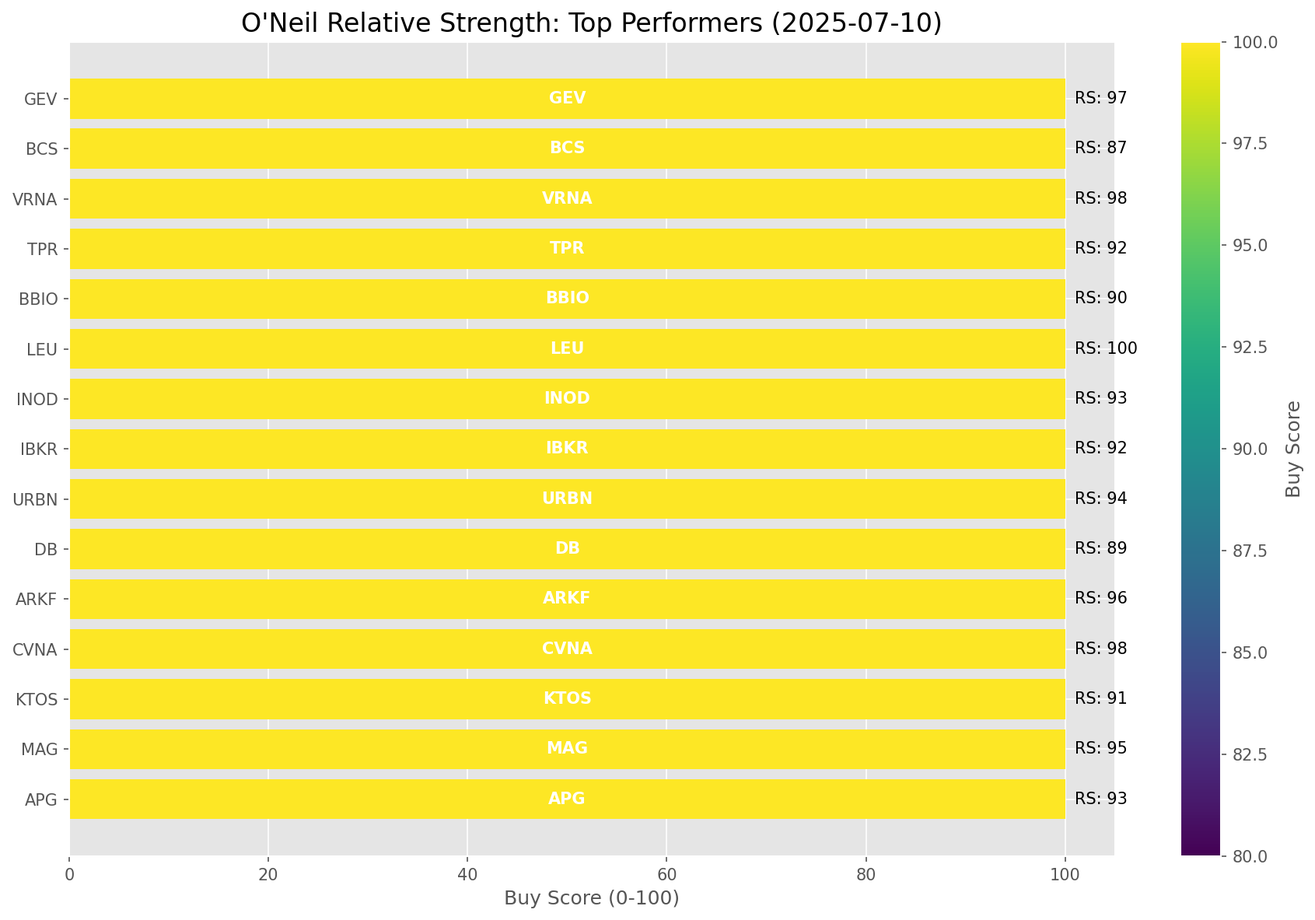
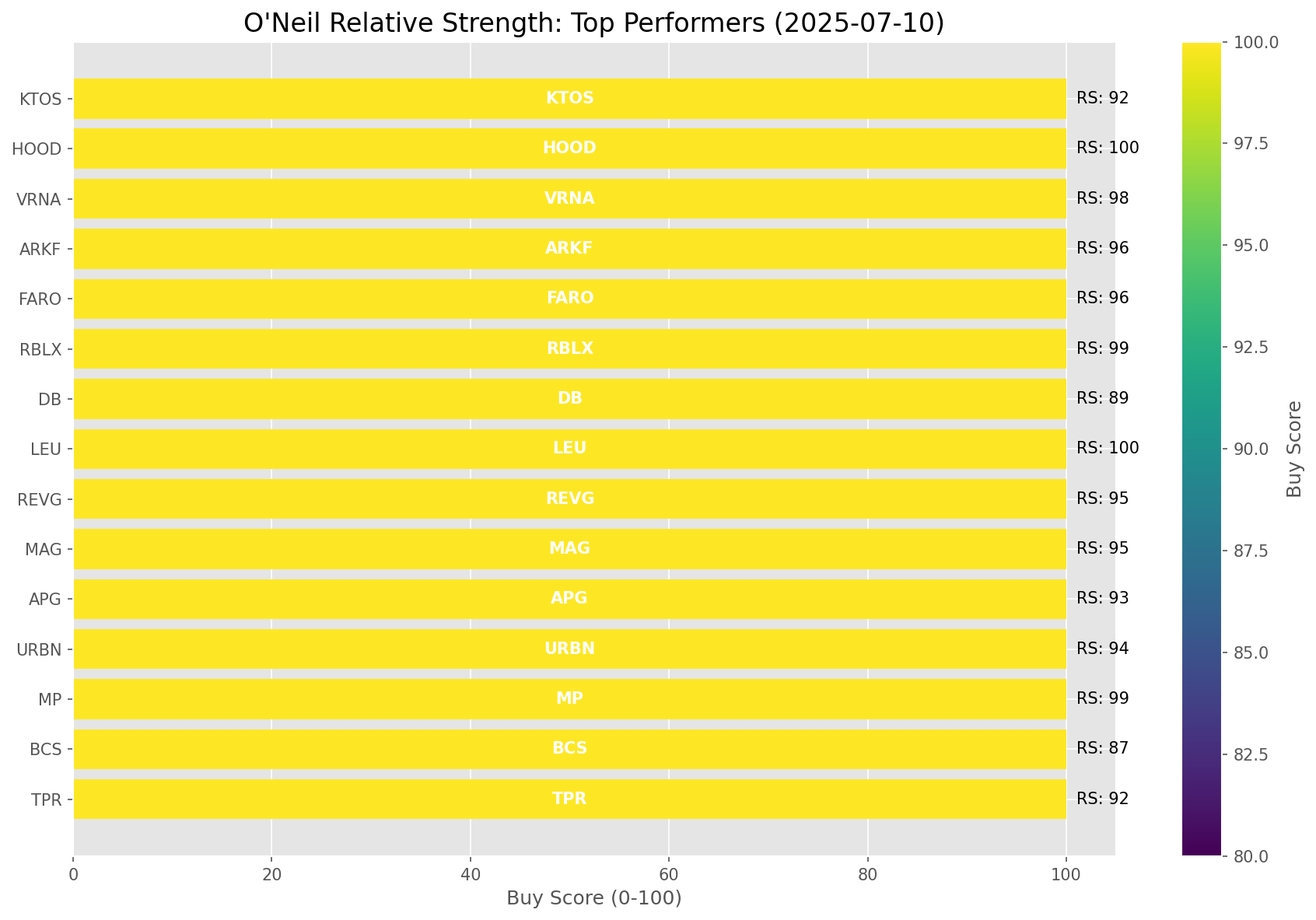
Add market report for 2025-07-10

diff --git a/oneil_relative_strength_report_2025-07-10.md b/oneil_relative_strength_report_2025-07-10.md
@@ -9,11 +9,11 @@
 | Metric | Value |
 |--------|-------|
 | **Market Valuation** | **Overvalued** |
-| **Current Ratio** | 10.31 |
+| **Current Ratio** | 10.30 |
 | **Historical Mean** | 9.44 |
 | **Standard Deviation** | 0.51 |
 | **Z-Score (StdDev from Mean)** | 1.62 |
-| **Total Market Cap** | $308.86 trillion |
+| **Total Market Cap** | $308.72 trillion |
 | **GDP** | $29.96 trillion |
 
 ## **Market Insights**
@@ -49,41 +49,41 @@ Based on William O'Neil's Relative Strength Methodology
 
 | ETF | Strength | RS Rating | Performance | Above Key MAs | Trend | Sector |
 |-----|----------|-----------|-------------|--------------|-------|--------|
-| [ARKW](https://www.tradingview.com/chart/?symbol=ARKW) | 98.0 | 96.0 | 82.32% | 10d ✓, 50d ✓, 200d ✓ | ↗ | Next Generation Internet |
-| [ARKF](https://www.tradingview.com/chart/?symbol=ARKF) | 98.0 | 96.0 | 76.46% | 10d ✓, 50d ✓, 200d ✓ | ↗ | Fintech Innovation |
-| [ARKK](https://www.tradingview.com/chart/?symbol=ARKK) | 98.0 | 96.0 | 80.76% | 10d ✓, 50d ✓, 200d ✓ | ↗ | Innovation |
-| [BLOK](https://www.tradingview.com/chart/?symbol=BLOK) | 97.0 | 94.0 | 64.85% | 10d ✓, 50d ✓, 200d ✓ | ↗ | Blockchain & Cryptocurrency |
-| [JETS](https://www.tradingview.com/chart/?symbol=JETS) | 93.5 | 87.0 | 48.36% | 10d ✓, 50d ✓, 200d ✓ | ↗ | Airlines |
-| [XLK](https://www.tradingview.com/chart/?symbol=XLK) | 91.5 | 83.0 | 43.31% | 10d ✓, 50d ✓, 200d ✓ | ↗ | Technology |
-| [AIQ](https://www.tradingview.com/chart/?symbol=AIQ) | 89.5 | 79.0 | 38.81% | 10d ✓, 50d ✓, 200d ✓ | ↗ | Artificial Intelligence & Technology |
-| [URA](https://www.tradingview.com/chart/?symbol=URA) | 88.1 | 96.0 | 82.23% | 10d ✗, 50d ✓, 200d ✓ | ↗ | Uranium |
+| [ARKW](https://www.tradingview.com/chart/?symbol=ARKW) | 98.0 | 96.0 | 82.03% | 10d ✓, 50d ✓, 200d ✓ | ↗ | Next Generation Internet |
+| [ARKF](https://www.tradingview.com/chart/?symbol=ARKF) | 98.0 | 96.0 | 76.37% | 10d ✓, 50d ✓, 200d ✓ | ↗ | Fintech Innovation |
+| [ARKK](https://www.tradingview.com/chart/?symbol=ARKK) | 98.0 | 96.0 | 81.12% | 10d ✓, 50d ✓, 200d ✓ | ↗ | Innovation |
+| [BLOK](https://www.tradingview.com/chart/?symbol=BLOK) | 97.0 | 94.0 | 64.83% | 10d ✓, 50d ✓, 200d ✓ | ↗ | Blockchain & Cryptocurrency |
+| [JETS](https://www.tradingview.com/chart/?symbol=JETS) | 93.5 | 87.0 | 47.84% | 10d ✓, 50d ✓, 200d ✓ | ↗ | Airlines |
+| [XLK](https://www.tradingview.com/chart/?symbol=XLK) | 91.5 | 83.0 | 43.19% | 10d ✓, 50d ✓, 200d ✓ | ↗ | Technology |
+| [AIQ](https://www.tradingview.com/chart/?symbol=AIQ) | 89.5 | 79.0 | 38.65% | 10d ✓, 50d ✓, 200d ✓ | ↗ | Artificial Intelligence & Technology |
+| [URA](https://www.tradingview.com/chart/?symbol=URA) | 88.1 | 96.0 | 83.12% | 10d ✗, 50d ✓, 200d ✓ | ↗ | Uranium |
 | [PAVE](https://www.tradingview.com/chart/?symbol=PAVE) | 87.0 | 74.0 | 33.97% | 10d ✓, 50d ✓, 200d ✓ | ↗ | Infrastructure |
-| [XLI](https://www.tradingview.com/chart/?symbol=XLI) | 84.0 | 68.0 | 29.83% | 10d ✓, 50d ✓, 200d ✓ | ↗ | Industrial |
-| [XLY](https://www.tradingview.com/chart/?symbol=XLY) | 80.0 | 60.0 | 25.69% | 10d ✓, 50d ✓, 200d ✓ | ↗ | Consumer Discretionary |
-| [SLV](https://www.tradingview.com/chart/?symbol=SLV) | 78.0 | 56.0 | 23.62% | 10d ✓, 50d ✓, 200d ✓ | ↗ | Silver |
-| [SOXX](https://www.tradingview.com/chart/?symbol=SOXX) | 76.0 | 92.0 | 59.58% | 10d ✓, 50d ✓, 200d ✓ | ↘ | Semiconductors |
-| [XLF](https://www.tradingview.com/chart/?symbol=XLF) | 74.5 | 49.0 | 20.03% | 10d ✓, 50d ✓, 200d ✓ | ↗ | Financial |
-| [CIBR](https://www.tradingview.com/chart/?symbol=CIBR) | 74.1 | 68.0 | 29.43% | 10d ✗, 50d ✓, 200d ✓ | ↗ | Cybersecurity |
-| [ARKG](https://www.tradingview.com/chart/?symbol=ARKG) | 71.0 | 82.0 | 42.04% | 10d ✓, 50d ✓, 200d ✓ | ↘ | Genomics |
-| [XLC](https://www.tradingview.com/chart/?symbol=XLC) | 68.6 | 57.0 | 24.05% | 10d ✗, 50d ✓, 200d ✓ | ↗ | Communications |
-| [XLU](https://www.tradingview.com/chart/?symbol=XLU) | 68.0 | 36.0 | 13.10% | 10d ✓, 50d ✓, 200d ✓ | ↗ | Utilities |
-| [IYT](https://www.tradingview.com/chart/?symbol=IYT) | 66.0 | 72.0 | 32.22% | 10d ✓, 50d ✓, 200d ✓ | ↘ | Transportation |
-| [IYZ](https://www.tradingview.com/chart/?symbol=IYZ) | 65.6 | 51.0 | 20.59% | 10d ✗, 50d ✓, 200d ✓ | ↗ | Telecommunications |
-| [KWEB](https://www.tradingview.com/chart/?symbol=KWEB) | 65.1 | 50.0 | 20.46% | 10d ✗, 50d ✓, 200d ✓ | ↗ | Chinese Internet |
-| [ICLN](https://www.tradingview.com/chart/?symbol=ICLN) | 63.0 | 66.0 | 28.36% | 10d ✓, 50d ✓, 200d ✓ | ↘ | Clean Energy |
-| [XLB](https://www.tradingview.com/chart/?symbol=XLB) | 59.0 | 58.0 | 24.60% | 10d ✓, 50d ✓, 200d ✓ | ↘ | Materials |
-| [XLE](https://www.tradingview.com/chart/?symbol=XLE) | 50.5 | 41.0 | 15.74% | 10d ✓, 50d ✓, 200d ✓ | ↘ | Energy |
-| [IYR](https://www.tradingview.com/chart/?symbol=IYR) | 48.5 | 37.0 | 13.74% | 10d ✓, 50d ✓, 200d ✓ | ↘ | Real Estate |
-| [GLD](https://www.tradingview.com/chart/?symbol=GLD) | 46.2 | 32.0 | 11.00% | 10d ✗, 50d ✗, 200d ✓ | ↗ | Gold |
-| [DBC](https://www.tradingview.com/chart/?symbol=DBC) | 45.5 | 31.0 | 10.00% | 10d ✓, 50d ✓, 200d ✓ | ↘ | Commodities |
-| [IBB](https://www.tradingview.com/chart/?symbol=IBB) | 43.8 | 48.0 | 19.21% | 10d ✓, 50d ✓, 200d ✗ | ↘ | Biotechnology |
-| [ITB](https://www.tradingview.com/chart/?symbol=ITB) | 42.8 | 46.0 | 18.17% | 10d ✓, 50d ✓, 200d ✗ | ↘ | Home Construction |
-| [XLP](https://www.tradingview.com/chart/?symbol=XLP) | 42.7 | 25.0 | 6.57% | 10d ✗, 50d ✗, 200d ✓ | ↗ | Consumer Staples |
-| [XLV](https://www.tradingview.com/chart/?symbol=XLV) | 28.8 | 18.0 | 2.87% | 10d ✓, 50d ✓, 200d ✗ | ↘ | Healthcare |
-| [DBA](https://www.tradingview.com/chart/?symbol=DBA) | 27.5 | 15.0 | 1.18% | 10d ✗, 50d ✗, 200d ✗ | ↗ | Agriculture |
-| [TLT](https://www.tradingview.com/chart/?symbol=TLT) | 14.4 | 9.0 | -1.53% | 10d ✗, 50d ✓, 200d ✗ | ↘ | Long-term Treasuries |
-| [UUP](https://www.tradingview.com/chart/?symbol=UUP) | 13.4 | 7.0 | -3.95% | 10d ✓, 50d ✗, 200d ✗ | ↘ | U.S. Dollar |
-| [BIL](https://www.tradingview.com/chart/?symbol=BIL) | 5.5 | 11.0 | 0.02% | 10d ✗, 50d ✗, 200d ✗ | ↘ | Short-term Treasuries |
+| [XLI](https://www.tradingview.com/chart/?symbol=XLI) | 84.0 | 68.0 | 29.71% | 10d ✓, 50d ✓, 200d ✓ | ↗ | Industrial |
+| [XLY](https://www.tradingview.com/chart/?symbol=XLY) | 80.0 | 60.0 | 25.71% | 10d ✓, 50d ✓, 200d ✓ | ↗ | Consumer Discretionary |
+| [SLV](https://www.tradingview.com/chart/?symbol=SLV) | 78.5 | 57.0 | 24.15% | 10d ✓, 50d ✓, 200d ✓ | ↗ | Silver |
+| [SOXX](https://www.tradingview.com/chart/?symbol=SOXX) | 76.0 | 92.0 | 59.40% | 10d ✓, 50d ✓, 200d ✓ | ↘ | Semiconductors |
+| [XLF](https://www.tradingview.com/chart/?symbol=XLF) | 74.5 | 49.0 | 19.96% | 10d ✓, 50d ✓, 200d ✓ | ↗ | Financial |
+| [CIBR](https://www.tradingview.com/chart/?symbol=CIBR) | 73.6 | 67.0 | 28.79% | 10d ✗, 50d ✓, 200d ✓ | ↗ | Cybersecurity |
+| [ARKG](https://www.tradingview.com/chart/?symbol=ARKG) | 71.0 | 82.0 | 42.45% | 10d ✓, 50d ✓, 200d ✓ | ↘ | Genomics |
+| [XLC](https://www.tradingview.com/chart/?symbol=XLC) | 68.6 | 57.0 | 24.02% | 10d ✗, 50d ✓, 200d ✓ | ↗ | Communications |
+| [XLU](https://www.tradingview.com/chart/?symbol=XLU) | 68.0 | 36.0 | 13.12% | 10d ✓, 50d ✓, 200d ✓ | ↗ | Utilities |
+| [GLD](https://www.tradingview.com/chart/?symbol=GLD) | 66.5 | 33.0 | 11.25% | 10d ✓, 50d ✓, 200d ✓ | ↗ | Gold |
+| [IYT](https://www.tradingview.com/chart/?symbol=IYT) | 65.5 | 71.0 | 31.77% | 10d ✓, 50d ✓, 200d ✓ | ↘ | Transportation |
+| [KWEB](https://www.tradingview.com/chart/?symbol=KWEB) | 65.1 | 50.0 | 20.33% | 10d ✗, 50d ✓, 200d ✓ | ↗ | Chinese Internet |
+| [IYZ](https://www.tradingview.com/chart/?symbol=IYZ) | 65.1 | 50.0 | 20.53% | 10d ✗, 50d ✓, 200d ✓ | ↗ | Telecommunications |
+| [ICLN](https://www.tradingview.com/chart/?symbol=ICLN) | 63.0 | 66.0 | 28.46% | 10d ✓, 50d ✓, 200d ✓ | ↘ | Clean Energy |
+| [XLB](https://www.tradingview.com/chart/?symbol=XLB) | 59.0 | 58.0 | 24.45% | 10d ✓, 50d ✓, 200d ✓ | ↘ | Materials |
+| [IBB](https://www.tradingview.com/chart/?symbol=IBB) | 54.0 | 48.0 | 19.56% | 10d ✓, 50d ✓, 200d ✓ | ↘ | Biotechnology |
+| [XLE](https://www.tradingview.com/chart/?symbol=XLE) | 50.5 | 41.0 | 15.76% | 10d ✓, 50d ✓, 200d ✓ | ↘ | Energy |
+| [DBC](https://www.tradingview.com/chart/?symbol=DBC) | 45.5 | 31.0 | 10.27% | 10d ✓, 50d ✓, 200d ✓ | ↘ | Commodities |
+| [XLP](https://www.tradingview.com/chart/?symbol=XLP) | 42.7 | 25.0 | 6.42% | 10d ✗, 50d ✗, 200d ✓ | ↗ | Consumer Staples |
+| [ITB](https://www.tradingview.com/chart/?symbol=ITB) | 42.3 | 45.0 | 18.01% | 10d ✓, 50d ✓, 200d ✗ | ↘ | Home Construction |
+| [IYR](https://www.tradingview.com/chart/?symbol=IYR) | 37.8 | 36.0 | 13.44% | 10d ✓, 50d ✓, 200d ✗ | ↘ | Real Estate |
+| [XLV](https://www.tradingview.com/chart/?symbol=XLV) | 28.8 | 18.0 | 2.78% | 10d ✓, 50d ✓, 200d ✗ | ↘ | Healthcare |
+| [DBA](https://www.tradingview.com/chart/?symbol=DBA) | 27.5 | 15.0 | 1.16% | 10d ✗, 50d ✗, 200d ✗ | ↗ | Agriculture |
+| [TLT](https://www.tradingview.com/chart/?symbol=TLT) | 14.4 | 9.0 | -1.59% | 10d ✗, 50d ✓, 200d ✗ | ↘ | Long-term Treasuries |
+| [UUP](https://www.tradingview.com/chart/?symbol=UUP) | 13.4 | 7.0 | -3.93% | 10d ✓, 50d ✗, 200d ✗ | ↘ | U.S. Dollar |
+| [BIL](https://www.tradingview.com/chart/?symbol=BIL) | 5.5 | 11.0 | 0.03% | 10d ✗, 50d ✗, 200d ✗ | ↘ | Short-term Treasuries |
 
 ### **Sector ETF Performance Interpretation**
 
@@ -100,150 +100,150 @@ This table shows the relative strength metrics for different market sectors base
 
 The current market leadership is coming from the following sectors: **Next Generation Internet, Fintech Innovation, Innovation**.
 
-The **Next Generation Internet** sector (represented by **ARKW**) is showing particularly strong relative strength with an RS rating of 96.0 and performance of 82.32% vs. the S&P 500. This sector is trading above its 10-day, 50-day, 200-day moving average(s). Investors should consider focusing on high RS stocks within these leading sectors for potential outperformance.
+The **Next Generation Internet** sector (represented by **ARKW**) is showing particularly strong relative strength with an RS rating of 96.0 and performance of 82.03% vs. the S&P 500. This sector is trading above its 10-day, 50-day, 200-day moving average(s). Investors should consider focusing on high RS stocks within these leading sectors for potential outperformance.
 
 ---
 
 ## **Buy Recommendations**
 
-The following 34 stocks show exceptional relative strength:
+The following 36 stocks show exceptional relative strength:
 
 | RS Rating | Buy Score | Current Price | Chart | Name | Ticker |
 |-----------|-----------|---------------|-------|------|--------|
-| 100 | 100 | $194.79 | [Chart](https://www.tradingview.com/chart/?symbol=LEU) | Centrus Energy Corp. | LEU |
-| 100 | 100 | $97.97 | [Chart](https://www.tradingview.com/chart/?symbol=HOOD) | Robinhood Markets, Inc. Class A Common Stock | HOOD |
+| 100 | 100 | $194.46 | [Chart](https://www.tradingview.com/chart/?symbol=LEU) | Centrus Energy Corp. | LEU |
+| 100 | 100 | $98.16 | [Chart](https://www.tradingview.com/chart/?symbol=HOOD) | Robinhood Markets, Inc. Class A Common Stock | HOOD |
+| 99 | 100 | $45.66 | [Chart](https://www.tradingview.com/chart/?symbol=MP) | MP Materials Corp. | MP |
+| 99 | 100 | $104.80 | [Chart](https://www.tradingview.com/chart/?symbol=RBLX) | Roblox Corporation | RBLX |
 | 99 | 100 | $145.69 | [Chart](https://www.tradingview.com/chart/?symbol=LMB) | Limbach Holdings, Inc Common Stock | LMB |
-| 99 | 100 | $44.38 | [Chart](https://www.tradingview.com/chart/?symbol=MP) | MP Materials Corp. | MP |
-| 98 | 100 | $347.89 | [Chart](https://www.tradingview.com/chart/?symbol=CVNA) | Carvana Co. | CVNA |
-| 98 | 100 | $104.84 | [Chart](https://www.tradingview.com/chart/?symbol=VRNA) | Verona Pharma plc | VRNA |
-| 98 | 100 | $143.66 | [Chart](https://www.tradingview.com/chart/?symbol=FUTU) | Futu Holdings Limited American Depositary Shares | FUTU |
-| 97 | 100 | $539.89 | [Chart](https://www.tradingview.com/chart/?symbol=GEV) | GE Vernova Inc. | GEV |
-| 97 | 100 | $142.23 | [Chart](https://www.tradingview.com/chart/?symbol=PLTR) | Palantir Technologies Inc. Class A Common Stock | PLTR |
-| 96 | 100 | $51.51 | [Chart](https://www.tradingview.com/chart/?symbol=ARKF) | ARK Fintech Innovation ETF | ARKF |
+| 98 | 100 | $104.88 | [Chart](https://www.tradingview.com/chart/?symbol=VRNA) | Verona Pharma plc | VRNA |
+| 98 | 100 | $348.55 | [Chart](https://www.tradingview.com/chart/?symbol=CVNA) | Carvana Co. | CVNA |
+| 98 | 100 | $143.32 | [Chart](https://www.tradingview.com/chart/?symbol=FUTU) | Futu Holdings Limited American Depositary Shares | FUTU |
+| 97 | 100 | $540.82 | [Chart](https://www.tradingview.com/chart/?symbol=GEV) | GE Vernova Inc. | GEV |
+| 97 | 100 | $142.14 | [Chart](https://www.tradingview.com/chart/?symbol=PLTR) | Palantir Technologies Inc. Class A Common Stock | PLTR |
 | 96 | 100 | $43.95 | [Chart](https://www.tradingview.com/chart/?symbol=FARO) | Faro Technologies Inc | FARO |
-| 95 | 100 | $21.38 | [Chart](https://www.tradingview.com/chart/?symbol=MAG) | MAG Silver Corp. | MAG |
-| 94 | 100 | $73.20 | [Chart](https://www.tradingview.com/chart/?symbol=URBN) | Urban Outfitters Inc | URBN |
-| 93 | 100 | $34.73 | [Chart](https://www.tradingview.com/chart/?symbol=APG) | APi Group Corporation | APG |
-| 93 | 100 | $52.62 | [Chart](https://www.tradingview.com/chart/?symbol=INOD) | Innodata Inc. | INOD |
-| 92 | 100 | $58.83 | [Chart](https://www.tradingview.com/chart/?symbol=IBKR) | Interactive Brokers Group, Inc. Class A Common Stock | IBKR |
-| 92 | 100 | $97.67 | [Chart](https://www.tradingview.com/chart/?symbol=TPR) | Tapestry, Inc. Common Stock | TPR |
-| 91 | 100 | $45.88 | [Chart](https://www.tradingview.com/chart/?symbol=KTOS) | Kratos Defense & Security Solutions, Inc. | KTOS |
-| 90 | 100 | $46.33 | [Chart](https://www.tradingview.com/chart/?symbol=BBIO) | BridgeBio Pharma, Inc. Common Stock | BBIO |
-| 89 | 100 | $29.99 | [Chart](https://www.tradingview.com/chart/?symbol=DB) | Deutsche Bank Aktiengesellschaft | DB |
-| 87 | 100 | $18.75 | [Chart](https://www.tradingview.com/chart/?symbol=BCS) | Barclays PLC | BCS |
-| 90 | 99 | $88.65 | [Chart](https://www.tradingview.com/chart/?symbol=RYTM) | Rhythm Pharmaceuticals, Inc. Common Stock | RYTM |
-| 88 | 99 | $35.82 | [Chart](https://www.tradingview.com/chart/?symbol=ATAT) | Atour Lifestyle Holdings Limited American Depositary Shares | ATAT |
-| 88 | 98 | $105.19 | [Chart](https://www.tradingview.com/chart/?symbol=SANM) | Sanmina  Corp | SANM |
-| 87 | 98 | $44.52 | [Chart](https://www.tradingview.com/chart/?symbol=TOST) | Toast, Inc. | TOST |
-| 87 | 98 | $251.06 | [Chart](https://www.tradingview.com/chart/?symbol=GE) | GE Aerospace | GE |
-| 87 | 98 | $50.36 | [Chart](https://www.tradingview.com/chart/?symbol=BTC) | Grayscale Bitcoin Mini Trust ETF | BTC |
-| 86 | 98 | $46.34 | [Chart](https://www.tradingview.com/chart/?symbol=DRS) | Leonardo DRS, Inc. Common Stock | DRS |
-| 87 | 97 | $64.62 | [Chart](https://www.tradingview.com/chart/?symbol=IBIT) | iShares Bitcoin Trust ETF | IBIT |
-| 87 | 97 | $29.93 | [Chart](https://www.tradingview.com/chart/?symbol=NTGR) | NETGEAR, Inc. | NTGR |
-| 85 | 96 | $25.53 | [Chart](https://www.tradingview.com/chart/?symbol=KAR) | OPENLANE, Inc | KAR |
-| 81 | 95 | $29.20 | [Chart](https://www.tradingview.com/chart/?symbol=SRAD) | Sportradar Group AG Class A Ordinary Shares | SRAD |
-| 80 | 93 | $29.29 | [Chart](https://www.tradingview.com/chart/?symbol=CAE) | CAE INC | CAE |
-| 83 | 92 | $48.64 | [Chart](https://www.tradingview.com/chart/?symbol=SIL) | Global X Silver Miners ETF (NEW) | SIL |
+| 96 | 100 | $51.48 | [Chart](https://www.tradingview.com/chart/?symbol=ARKF) | ARK Fintech Innovation ETF | ARKF |
+| 95 | 100 | $21.58 | [Chart](https://www.tradingview.com/chart/?symbol=MAG) | MAG Silver Corp. | MAG |
+| 95 | 100 | $49.60 | [Chart](https://www.tradingview.com/chart/?symbol=REVG) | REV Group, Inc. | REVG |
+| 94 | 100 | $72.89 | [Chart](https://www.tradingview.com/chart/?symbol=URBN) | Urban Outfitters Inc | URBN |
+| 93 | 100 | $34.76 | [Chart](https://www.tradingview.com/chart/?symbol=APG) | APi Group Corporation | APG |
+| 93 | 100 | $52.52 | [Chart](https://www.tradingview.com/chart/?symbol=INOD) | Innodata Inc. | INOD |
+| 92 | 100 | $97.73 | [Chart](https://www.tradingview.com/chart/?symbol=TPR) | Tapestry, Inc. Common Stock | TPR |
+| 92 | 100 | $46.38 | [Chart](https://www.tradingview.com/chart/?symbol=KTOS) | Kratos Defense & Security Solutions, Inc. | KTOS |
+| 92 | 100 | $58.89 | [Chart](https://www.tradingview.com/chart/?symbol=IBKR) | Interactive Brokers Group, Inc. Class A Common Stock | IBKR |
+| 90 | 100 | $46.53 | [Chart](https://www.tradingview.com/chart/?symbol=BBIO) | BridgeBio Pharma, Inc. Common Stock | BBIO |
+| 89 | 100 | $29.98 | [Chart](https://www.tradingview.com/chart/?symbol=DB) | Deutsche Bank Aktiengesellschaft | DB |
+| 87 | 100 | $18.77 | [Chart](https://www.tradingview.com/chart/?symbol=BCS) | Barclays PLC | BCS |
+| 90 | 99 | $89.30 | [Chart](https://www.tradingview.com/chart/?symbol=RYTM) | Rhythm Pharmaceuticals, Inc. Common Stock | RYTM |
+| 88 | 99 | $35.91 | [Chart](https://www.tradingview.com/chart/?symbol=ATAT) | Atour Lifestyle Holdings Limited American Depositary Shares | ATAT |
+| 87 | 99 | $46.55 | [Chart](https://www.tradingview.com/chart/?symbol=DRS) | Leonardo DRS, Inc. Common Stock | DRS |
+| 87 | 98 | $251.75 | [Chart](https://www.tradingview.com/chart/?symbol=GE) | GE Aerospace | GE |
+| 87 | 98 | $50.41 | [Chart](https://www.tradingview.com/chart/?symbol=BTC) | Grayscale Bitcoin Mini Trust ETF | BTC |
+| 87 | 97 | $64.69 | [Chart](https://www.tradingview.com/chart/?symbol=IBIT) | iShares Bitcoin Trust ETF | IBIT |
+| 87 | 97 | $105.39 | [Chart](https://www.tradingview.com/chart/?symbol=SANM) | Sanmina  Corp | SANM |
+| 86 | 97 | $44.25 | [Chart](https://www.tradingview.com/chart/?symbol=TOST) | Toast, Inc. | TOST |
+| 86 | 96 | $29.66 | [Chart](https://www.tradingview.com/chart/?symbol=NTGR) | NETGEAR, Inc. | NTGR |
+| 84 | 95 | $25.43 | [Chart](https://www.tradingview.com/chart/?symbol=KAR) | OPENLANE, Inc | KAR |
+| 81 | 95 | $29.23 | [Chart](https://www.tradingview.com/chart/?symbol=SRAD) | Sportradar Group AG Class A Ordinary Shares | SRAD |
+| 84 | 93 | $48.98 | [Chart](https://www.tradingview.com/chart/?symbol=SIL) | Global X Silver Miners ETF (NEW) | SIL |
+| 80 | 90 | $46.42 | [Chart](https://www.tradingview.com/chart/?symbol=AU) | AngloGold Ashanti plc | AU |
 
 ---
 
 
 ## **Sell Recommendations**
 
-The following 90 stocks show deteriorating relative strength:
+The following 88 stocks show deteriorating relative strength:
 
 | RS Rating | Sell Score | Current Price | Chart | Name | Ticker |
 |-----------|------------|---------------|-------|------|--------|
+| 1 | 100 | $16.25 | [Chart](https://www.tradingview.com/chart/?symbol=SDS) | ProShares UltraShort S&P500 | SDS |
+| 1 | 100 | $18.58 | [Chart](https://www.tradingview.com/chart/?symbol=BITI) | ProShares Short Bitcoin ETF | BITI |
+| 1 | 100 | $24.12 | [Chart](https://www.tradingview.com/chart/?symbol=ZSL) | ProShares UltraShort Silver | ZSL |
+| 1 | 100 | $25.50 | [Chart](https://www.tradingview.com/chart/?symbol=TECS) | Direxion Daily Technology Bear 3x Shares | TECS |
 | 1 | 100 | $24.98 | [Chart](https://www.tradingview.com/chart/?symbol=QID) | ProShares UltraShort QQQ | QID |
-| 1 | 100 | $16.23 | [Chart](https://www.tradingview.com/chart/?symbol=SDS) | ProShares UltraShort S&P500 | SDS |
-| 1 | 100 | $24.38 | [Chart](https://www.tradingview.com/chart/?symbol=ZSL) | ProShares UltraShort Silver | ZSL |
-| 1 | 100 | $39.68 | [Chart](https://www.tradingview.com/chart/?symbol=SDOW) | ProShares UltraPro Short Dow 30 | SDOW |
-| 1 | 100 | $18.60 | [Chart](https://www.tradingview.com/chart/?symbol=BITI) | ProShares Short Bitcoin ETF | BITI |
-| 1 | 100 | $25.43 | [Chart](https://www.tradingview.com/chart/?symbol=TECS) | Direxion Daily Technology Bear 3x Shares | TECS |
-| 2 | 100 | $20.94 | [Chart](https://www.tradingview.com/chart/?symbol=ERY) | Direxion Daily Energy Bear 2X Shares | ERY |
-| 2 | 100 | $34.28 | [Chart](https://www.tradingview.com/chart/?symbol=SARK) | Investment Managers Series Trust II Tradr 1X Short Innovation Daily ETF | SARK |
-| 2 | 100 | $23.55 | [Chart](https://www.tradingview.com/chart/?symbol=DXD) | ProShares UltraShort Dow 30 | DXD |
+| 1 | 100 | $39.77 | [Chart](https://www.tradingview.com/chart/?symbol=SDOW) | ProShares UltraPro Short Dow 30 | SDOW |
+| 2 | 100 | $33.47 | [Chart](https://www.tradingview.com/chart/?symbol=PSQ) | ProShares Short QQQ | PSQ |
 | 2 | 100 | $10.25 | [Chart](https://www.tradingview.com/chart/?symbol=SNDX) | Syndax Pharmaceuticals, Inc. | SNDX |
-| 2 | 100 | $229.60 | [Chart](https://www.tradingview.com/chart/?symbol=MOH) | Molina Healthcare, Inc. | MOH |
-| 2 | 100 | $39.20 | [Chart](https://www.tradingview.com/chart/?symbol=SH) | ProShares Short S&P500 | SH |
-| 2 | 100 | $33.46 | [Chart](https://www.tradingview.com/chart/?symbol=PSQ) | ProShares Short QQQ | PSQ |
-| 3 | 100 | $24.21 | [Chart](https://www.tradingview.com/chart/?symbol=CRTO) | Criteo S.A. | CRTO |
-| 3 | 100 | $10.76 | [Chart](https://www.tradingview.com/chart/?symbol=EMBC) | Embecta Corp. Common Stock | EMBC |
-| 3 | 100 | $233.90 | [Chart](https://www.tradingview.com/chart/?symbol=HUM) | Humana Inc. | HUM |
-| 3 | 100 | $25.14 | [Chart](https://www.tradingview.com/chart/?symbol=DOG) | ProShares Short Dow30 | DOG |
+| 2 | 100 | $23.58 | [Chart](https://www.tradingview.com/chart/?symbol=DXD) | ProShares UltraShort Dow 30 | DXD |
+| 2 | 100 | $39.21 | [Chart](https://www.tradingview.com/chart/?symbol=SH) | ProShares Short S&P500 | SH |
+| 2 | 100 | $229.18 | [Chart](https://www.tradingview.com/chart/?symbol=MOH) | Molina Healthcare, Inc. | MOH |
+| 2 | 100 | $20.87 | [Chart](https://www.tradingview.com/chart/?symbol=ERY) | Direxion Daily Energy Bear 2X Shares | ERY |
+| 2 | 100 | $34.18 | [Chart](https://www.tradingview.com/chart/?symbol=SARK) | Investment Managers Series Trust II Tradr 1X Short Innovation Daily ETF | SARK |
 | 3 | 100 | $12.55 | [Chart](https://www.tradingview.com/chart/?symbol=CCRN) | Cross Country Healthcare Inc | CCRN |
-| 3 | 100 | $60.09 | [Chart](https://www.tradingview.com/chart/?symbol=STC) | Stewart Information Services Corporation | STC |
-| 4 | 100 | $17.11 | [Chart](https://www.tradingview.com/chart/?symbol=HP) | Helmerich & Payne, Inc. | HP |
-| 4 | 100 | $43.47 | [Chart](https://www.tradingview.com/chart/?symbol=LINE) | Lineage, Inc. Common Stock | LINE |
-| 4 | 100 | $10.47 | [Chart](https://www.tradingview.com/chart/?symbol=LBTYK) | Liberty Global Ltd. Class C Common Shares | LBTYK |
+| 3 | 100 | $233.22 | [Chart](https://www.tradingview.com/chart/?symbol=HUM) | Humana Inc. | HUM |
+| 3 | 100 | $25.16 | [Chart](https://www.tradingview.com/chart/?symbol=DOG) | ProShares Short Dow30 | DOG |
+| 3 | 100 | $37.72 | [Chart](https://www.tradingview.com/chart/?symbol=IBTA) | Ibotta, Inc. | IBTA |
+| 3 | 100 | $10.71 | [Chart](https://www.tradingview.com/chart/?symbol=EMBC) | Embecta Corp. Common Stock | EMBC |
+| 3 | 100 | $24.36 | [Chart](https://www.tradingview.com/chart/?symbol=CRTO) | Criteo S.A. | CRTO |
+| 3 | 100 | $60.17 | [Chart](https://www.tradingview.com/chart/?symbol=STC) | Stewart Information Services Corporation | STC |
+| 4 | 100 | $17.13 | [Chart](https://www.tradingview.com/chart/?symbol=HP) | Helmerich & Payne, Inc. | HP |
+| 4 | 100 | $10.53 | [Chart](https://www.tradingview.com/chart/?symbol=LBTYK) | Liberty Global Ltd. Class C Common Shares | LBTYK |
 | 4 | 100 | $65.01 | [Chart](https://www.tradingview.com/chart/?symbol=ZROZ) | PIMCO 25+ Year Zero Coupon U.S. Treasury Index Exchange-Traded Fund | ZROZ |
-| 4 | 100 | $37.97 | [Chart](https://www.tradingview.com/chart/?symbol=IBTA) | Ibotta, Inc. | IBTA |
-| 5 | 100 | $430.32 | [Chart](https://www.tradingview.com/chart/?symbol=MUSA) | MURPHY USA INC. | MUSA |
-| 5 | 100 | $14.79 | [Chart](https://www.tradingview.com/chart/?symbol=SEM) | SELECT MEDICAL HOLDINGS CORP | SEM |
-| 5 | 100 | $10.18 | [Chart](https://www.tradingview.com/chart/?symbol=LBTYA) | Liberty Global Ltd. Class A Common Shares | LBTYA |
-| 5 | 100 | $17.37 | [Chart](https://www.tradingview.com/chart/?symbol=NOMD) | Nomad Foods Limited | NOMD |
-| 6 | 100 | $16.52 | [Chart](https://www.tradingview.com/chart/?symbol=COLD) | Americold Realty Trust, Inc. | COLD |
+| 4 | 100 | $43.41 | [Chart](https://www.tradingview.com/chart/?symbol=LINE) | Lineage, Inc. Common Stock | LINE |
+| 5 | 100 | $14.74 | [Chart](https://www.tradingview.com/chart/?symbol=SEM) | SELECT MEDICAL HOLDINGS CORP | SEM |
+| 5 | 100 | $429.35 | [Chart](https://www.tradingview.com/chart/?symbol=MUSA) | MURPHY USA INC. | MUSA |
+| 5 | 100 | $10.22 | [Chart](https://www.tradingview.com/chart/?symbol=LBTYA) | Liberty Global Ltd. Class A Common Shares | LBTYA |
+| 6 | 100 | $17.40 | [Chart](https://www.tradingview.com/chart/?symbol=NOMD) | Nomad Foods Limited | NOMD |
+| 6 | 100 | $16.57 | [Chart](https://www.tradingview.com/chart/?symbol=COLD) | Americold Realty Trust, Inc. | COLD |
 | 6 | 100 | $10.37 | [Chart](https://www.tradingview.com/chart/?symbol=NMZ) | Nuveen Municipal High Income Opportunity Fund | NMZ |
-| 9 | 100 | $16.17 | [Chart](https://www.tradingview.com/chart/?symbol=TNDM) | Tandem Diabetes Care, Inc. | TNDM |
-| 9 | 100 | $72.14 | [Chart](https://www.tradingview.com/chart/?symbol=TNET) | TRINET GROUP, INC. | TNET |
-| 9 | 100 | $51.58 | [Chart](https://www.tradingview.com/chart/?symbol=LW) | Lamb Weston Holdings, Inc. | LW |
-| 10 | 100 | $22.85 | [Chart](https://www.tradingview.com/chart/?symbol=IBTG) | iShares iBonds Dec 2026 Term Treasury ETF | IBTG |
+| 8 | 100 | $51.38 | [Chart](https://www.tradingview.com/chart/?symbol=LW) | Lamb Weston Holdings, Inc. | LW |
+| 9 | 100 | $71.64 | [Chart](https://www.tradingview.com/chart/?symbol=TNET) | TRINET GROUP, INC. | TNET |
+| 9 | 100 | $16.13 | [Chart](https://www.tradingview.com/chart/?symbol=TNDM) | Tandem Diabetes Care, Inc. | TNDM |
 | 10 | 100 | $29.15 | [Chart](https://www.tradingview.com/chart/?symbol=SPTS) | SPDR Portfolio Short Term Treasury ETF | SPTS |
-| 10 | 100 | $132.77 | [Chart](https://www.tradingview.com/chart/?symbol=KMB) | Kimberly-Clark Corp. | KMB |
-| 6 | 99 | $53.12 | [Chart](https://www.tradingview.com/chart/?symbol=SLVM) | Sylvamo Corporation | SLVM |
-| 7 | 99 | $13.04 | [Chart](https://www.tradingview.com/chart/?symbol=GO) | Grocery Outlet Holding Corp. Common Stock | GO |
-| 12 | 99 | $14.79 | [Chart](https://www.tradingview.com/chart/?symbol=VRE) | Veris Residential, Inc. | VRE |
-| 4 | 98 | $25.28 | [Chart](https://www.tradingview.com/chart/?symbol=DRV) | Direxion Daily Real Estate Bear 3X Shares | DRV |
-| 8 | 98 | $46.27 | [Chart](https://www.tradingview.com/chart/?symbol=CWT) | California Water Service | CWT |
-| 7 | 97 | $21.70 | [Chart](https://www.tradingview.com/chart/?symbol=TUA) | Simplify Short Term Treasury Futures Strategy ETF | TUA |
-| 6 | 96 | $27.36 | [Chart](https://www.tradingview.com/chart/?symbol=VCYT) | Veracyte, Inc. | VCYT |
-| 9 | 96 | $139.00 | [Chart](https://www.tradingview.com/chart/?symbol=INSP) | Inspire Medical Systems, Inc. | INSP |
-| 15 | 96 | $47.48 | [Chart](https://www.tradingview.com/chart/?symbol=KBR) | KBR, Inc. | KBR |
-| 9 | 95 | $49.26 | [Chart](https://www.tradingview.com/chart/?symbol=SNY) | Sanofi American Depositary Shares (Each representing one-half of one ordinary share) | SNY |
-| 10 | 95 | $82.45 | [Chart](https://www.tradingview.com/chart/?symbol=SHY) | iShares 1-3 Year Treasury Bond ETF | SHY |
-| 19 | 93 | $105.42 | [Chart](https://www.tradingview.com/chart/?symbol=DECK) | Deckers Outdoor Corp | DECK |
-| 21 | 93 | $87.10 | [Chart](https://www.tradingview.com/chart/?symbol=SIGI) | Selective Insurance Group | SIGI |
-| 11 | 92 | $110.17 | [Chart](https://www.tradingview.com/chart/?symbol=SHV) | iShares Short Treasury Bond ETF | SHV |
-| 22 | 92 | $465.64 | [Chart](https://www.tradingview.com/chart/?symbol=LMT) | Lockheed Martin Corp. | LMT |
-| 10 | 90 | $22.38 | [Chart](https://www.tradingview.com/chart/?symbol=IBTH) | iShares iBonds Dec 2027 Term Treasury ETF | IBTH |
+| 10 | 100 | $132.42 | [Chart](https://www.tradingview.com/chart/?symbol=KMB) | Kimberly-Clark Corp. | KMB |
+| 9 | 99 | $46.55 | [Chart](https://www.tradingview.com/chart/?symbol=CWT) | California Water Service | CWT |
+| 10 | 99 | $22.85 | [Chart](https://www.tradingview.com/chart/?symbol=IBTG) | iShares iBonds Dec 2026 Term Treasury ETF | IBTG |
+| 5 | 98 | $24.80 | [Chart](https://www.tradingview.com/chart/?symbol=DRV) | Direxion Daily Real Estate Bear 3X Shares | DRV |
+| 7 | 98 | $12.91 | [Chart](https://www.tradingview.com/chart/?symbol=GO) | Grocery Outlet Holding Corp. Common Stock | GO |
+| 12 | 98 | $14.76 | [Chart](https://www.tradingview.com/chart/?symbol=VRE) | Veris Residential, Inc. | VRE |
+| 7 | 97 | $21.71 | [Chart](https://www.tradingview.com/chart/?symbol=TUA) | Simplify Short Term Treasury Futures Strategy ETF | TUA |
+| 6 | 96 | $27.41 | [Chart](https://www.tradingview.com/chart/?symbol=VCYT) | Veracyte, Inc. | VCYT |
+| 9 | 96 | $139.96 | [Chart](https://www.tradingview.com/chart/?symbol=INSP) | Inspire Medical Systems, Inc. | INSP |
+| 15 | 96 | $47.33 | [Chart](https://www.tradingview.com/chart/?symbol=KBR) | KBR, Inc. | KBR |
+| 9 | 95 | $49.37 | [Chart](https://www.tradingview.com/chart/?symbol=SNY) | Sanofi American Depositary Shares (Each representing one-half of one ordinary share) | SNY |
+| 14 | 95 | $25.80 | [Chart](https://www.tradingview.com/chart/?symbol=PNTG) | The Pennant Group, Inc. Common Stock | PNTG |
+| 10 | 94 | $82.45 | [Chart](https://www.tradingview.com/chart/?symbol=SHY) | iShares 1-3 Year Treasury Bond ETF | SHY |
+| 20 | 94 | $86.63 | [Chart](https://www.tradingview.com/chart/?symbol=SIGI) | Selective Insurance Group | SIGI |
+| 19 | 92 | $105.47 | [Chart](https://www.tradingview.com/chart/?symbol=DECK) | Deckers Outdoor Corp | DECK |
+| 19 | 92 | $53.79 | [Chart](https://www.tradingview.com/chart/?symbol=CNMD) | CONMED Corporation | CNMD |
+| 22 | 92 | $466.38 | [Chart](https://www.tradingview.com/chart/?symbol=LMT) | Lockheed Martin Corp. | LMT |
+| 11 | 91 | $110.17 | [Chart](https://www.tradingview.com/chart/?symbol=SHV) | iShares Short Treasury Bond ETF | SHV |
 | 12 | 90 | $59.90 | [Chart](https://www.tradingview.com/chart/?symbol=FTSM) | First Trust Enhanced Short Maturity ETF | FTSM |
-| 15 | 90 | $13.29 | [Chart](https://www.tradingview.com/chart/?symbol=BSM) | Black Stone Minerals, L.P. | BSM |
-| 16 | 90 | $24.61 | [Chart](https://www.tradingview.com/chart/?symbol=HYMB) | SPDR Nuveen ICE High Yield Municipal Bond ETF | HYMB |
-| 17 | 90 | $25.39 | [Chart](https://www.tradingview.com/chart/?symbol=TBBB) | BBB Foods Inc. | TBBB |
-| 17 | 90 | $339.77 | [Chart](https://www.tradingview.com/chart/?symbol=EG) | Everest Group, Ltd. | EG |
-| 21 | 90 | $54.17 | [Chart](https://www.tradingview.com/chart/?symbol=CNMD) | CONMED Corporation | CNMD |
-| 24 | 90 | $32.48 | [Chart](https://www.tradingview.com/chart/?symbol=INVH) | Invitation Homes Inc. Common Stock | INVH |
-| 16 | 89 | $26.16 | [Chart](https://www.tradingview.com/chart/?symbol=PNTG) | The Pennant Group, Inc. Common Stock | PNTG |
-| 20 | 89 | $34.78 | [Chart](https://www.tradingview.com/chart/?symbol=PECO) | Phillips Edison & Company, Inc. Common Stock | PECO |
-| 12 | 88 | $100.29 | [Chart](https://www.tradingview.com/chart/?symbol=MINT) | PIMCO Enhanced Short Maturity Active Exchange-Traded Fund | MINT |
-| 25 | 88 | $61.62 | [Chart](https://www.tradingview.com/chart/?symbol=UL) | Unilever plc | UL |
-| 20 | 87 | $19.99 | [Chart](https://www.tradingview.com/chart/?symbol=SPT) | Sprout Social, Inc Class A Common Stock | SPT |
-| 20 | 87 | $105.55 | [Chart](https://www.tradingview.com/chart/?symbol=DEO) | Diageo plc | DEO |
-| 24 | 87 | $14.11 | [Chart](https://www.tradingview.com/chart/?symbol=DOLE) | Dole plc | DOLE |
+| 17 | 90 | $25.49 | [Chart](https://www.tradingview.com/chart/?symbol=TBBB) | BBB Foods Inc. | TBBB |
+| 17 | 90 | $340.15 | [Chart](https://www.tradingview.com/chart/?symbol=EG) | Everest Group, Ltd. | EG |
+| 24 | 90 | $32.38 | [Chart](https://www.tradingview.com/chart/?symbol=INVH) | Invitation Homes Inc. Common Stock | INVH |
+| 15 | 89 | $13.27 | [Chart](https://www.tradingview.com/chart/?symbol=BSM) | Black Stone Minerals, L.P. | BSM |
+| 18 | 89 | $19.75 | [Chart](https://www.tradingview.com/chart/?symbol=SPT) | Sprout Social, Inc Class A Common Stock | SPT |
+| 19 | 89 | $34.72 | [Chart](https://www.tradingview.com/chart/?symbol=PECO) | Phillips Edison & Company, Inc. Common Stock | PECO |
+| 23 | 88 | $14.02 | [Chart](https://www.tradingview.com/chart/?symbol=DOLE) | Dole plc | DOLE |
+| 25 | 88 | $61.56 | [Chart](https://www.tradingview.com/chart/?symbol=UL) | Unilever plc | UL |
 | 18 | 86 | $77.65 | [Chart](https://www.tradingview.com/chart/?symbol=AWR) | American States Water Company | AWR |
-| 19 | 86 | $36.60 | [Chart](https://www.tradingview.com/chart/?symbol=PBA) | PEMBINA PIPELINE CORPORATION | PBA |
-| 20 | 86 | $165.09 | [Chart](https://www.tradingview.com/chart/?symbol=HSY) | The Hershey Company | HSY |
-| 18 | 84 | $26.79 | [Chart](https://www.tradingview.com/chart/?symbol=FCPT) | Four Corners Property Trust, Inc. | FCPT |
-| 20 | 82 | $20.65 | [Chart](https://www.tradingview.com/chart/?symbol=CON) | Concentra Group Holdings Parent, Inc. | CON |
-| 21 | 82 | $71.85 | [Chart](https://www.tradingview.com/chart/?symbol=NHI) | National Health Investors | NHI |
-| 22 | 82 | $237.39 | [Chart](https://www.tradingview.com/chart/?symbol=RNR) | RenaissanceRe Holdings Ltd. | RNR |
-| 25 | 82 | $40.69 | [Chart](https://www.tradingview.com/chart/?symbol=UDR) | UDR, Inc. | UDR |
-| 29 | 82 | $16.03 | [Chart](https://www.tradingview.com/chart/?symbol=BNL) | Broadstone Net Lease, Inc. | BNL |
-| 29 | 79 | $566.97 | [Chart](https://www.tradingview.com/chart/?symbol=TYL) | Tyler Technologies, Inc. | TYL |
-| 34 | 79 | $18.20 | [Chart](https://www.tradingview.com/chart/?symbol=S) | SentinelOne, Inc. | S |
-| 27 | 77 | $19.14 | [Chart](https://www.tradingview.com/chart/?symbol=MSDL) | Morgan Stanley Direct Lending Fund | MSDL |
-| 29 | 77 | $31.02 | [Chart](https://www.tradingview.com/chart/?symbol=AXTA) | Axalta Coating Systems Ltd. | AXTA |
-| 29 | 77 | $101.20 | [Chart](https://www.tradingview.com/chart/?symbol=FMX) | FOMENTO ECONOMICO MEXICANO, S.A.B. DE C.V. | FMX |
+| 20 | 86 | $165.22 | [Chart](https://www.tradingview.com/chart/?symbol=HSY) | The Hershey Company | HSY |
+| 18 | 84 | $26.77 | [Chart](https://www.tradingview.com/chart/?symbol=FCPT) | Four Corners Property Trust, Inc. | FCPT |
+| 20 | 84 | $36.76 | [Chart](https://www.tradingview.com/chart/?symbol=PBA) | PEMBINA PIPELINE CORPORATION | PBA |
+| 20 | 82 | $71.45 | [Chart](https://www.tradingview.com/chart/?symbol=NHI) | National Health Investors | NHI |
+| 25 | 82 | $40.49 | [Chart](https://www.tradingview.com/chart/?symbol=UDR) | UDR, Inc. | UDR |
+| 29 | 82 | $15.99 | [Chart](https://www.tradingview.com/chart/?symbol=BNL) | Broadstone Net Lease, Inc. | BNL |
+| 20 | 81 | $20.62 | [Chart](https://www.tradingview.com/chart/?symbol=CON) | Concentra Group Holdings Parent, Inc. | CON |
+| 32 | 81 | $18.08 | [Chart](https://www.tradingview.com/chart/?symbol=S) | SentinelOne, Inc. | S |
+| 21 | 80 | $24.11 | [Chart](https://www.tradingview.com/chart/?symbol=EWM) | iShares MSCI Malaysia ETF | EWM |
+| 23 | 80 | $238.37 | [Chart](https://www.tradingview.com/chart/?symbol=RNR) | RenaissanceRe Holdings Ltd. | RNR |
+| 28 | 80 | $565.73 | [Chart](https://www.tradingview.com/chart/?symbol=TYL) | Tyler Technologies, Inc. | TYL |
+| 30 | 80 | $22.48 | [Chart](https://www.tradingview.com/chart/?symbol=SGRY) | Surgery Partners, Inc. Common Stock | SGRY |
+| 25 | 77 | $16.23 | [Chart](https://www.tradingview.com/chart/?symbol=PRO) | Pros Holdings, Inc. | PRO |
+| 27 | 77 | $19.11 | [Chart](https://www.tradingview.com/chart/?symbol=MSDL) | Morgan Stanley Direct Lending Fund | MSDL |
+| 29 | 77 | $101.57 | [Chart](https://www.tradingview.com/chart/?symbol=FMX) | FOMENTO ECONOMICO MEXICANO, S.A.B. DE C.V. | FMX |
 | 30 | 77 | $56.44 | [Chart](https://www.tradingview.com/chart/?symbol=USRT) | iShares Core U.S. REIT ETF | USRT |
-| 26 | 76 | $16.32 | [Chart](https://www.tradingview.com/chart/?symbol=PRO) | Pros Holdings, Inc. | PRO |
-| 30 | 76 | $35.87 | [Chart](https://www.tradingview.com/chart/?symbol=AMH) | AMERICAN HOMES 4 RENT | AMH |
-| 26 | 75 | $114.16 | [Chart](https://www.tradingview.com/chart/?symbol=CPT) | Camden Property Trust | CPT |
-| 28 | 75 | $57.23 | [Chart](https://www.tradingview.com/chart/?symbol=ESNT) | Essent Group LTD | ESNT |
-| 29 | 75 | $67.41 | [Chart](https://www.tradingview.com/chart/?symbol=EQR) | Equity Residential | EQR |
-| 36 | 72 | $137.32 | [Chart](https://www.tradingview.com/chart/?symbol=SPSC) | SPS Commerce, Inc. | SPSC |
-| 34 | 68 | $105.14 | [Chart](https://www.tradingview.com/chart/?symbol=PDD) | PDD Holdings Inc. American Depositary Shares | PDD |
-| 36 | 66 | $67.94 | [Chart](https://www.tradingview.com/chart/?symbol=QSR) | Restaurant Brands International Inc. | QSR |
-| 39 | 64 | $57.00 | [Chart](https://www.tradingview.com/chart/?symbol=ALRM) | Alarm.com Holdings, Inc. | ALRM |
+| 25 | 76 | $113.55 | [Chart](https://www.tradingview.com/chart/?symbol=CPT) | Camden Property Trust | CPT |
+| 29 | 76 | $35.80 | [Chart](https://www.tradingview.com/chart/?symbol=AMH) | AMERICAN HOMES 4 RENT | AMH |
+| 28 | 75 | $57.22 | [Chart](https://www.tradingview.com/chart/?symbol=ESNT) | Essent Group LTD | ESNT |
+| 29 | 75 | $67.20 | [Chart](https://www.tradingview.com/chart/?symbol=EQR) | Equity Residential | EQR |
+| 35 | 72 | $136.74 | [Chart](https://www.tradingview.com/chart/?symbol=SPSC) | SPS Commerce, Inc. | SPSC |
+| 34 | 68 | $104.92 | [Chart](https://www.tradingview.com/chart/?symbol=PDD) | PDD Holdings Inc. American Depositary Shares | PDD |
+| 36 | 68 | $40.35 | [Chart](https://www.tradingview.com/chart/?symbol=LZB) | La-Z-Boy Incorporated | LZB |
+| 39 | 68 | $163.16 | [Chart](https://www.tradingview.com/chart/?symbol=NICE) | NICE Ltd | NICE |
+| 36 | 66 | $68.03 | [Chart](https://www.tradingview.com/chart/?symbol=QSR) | Restaurant Brands International Inc. | QSR |
+| 39 | 63 | $56.82 | [Chart](https://www.tradingview.com/chart/?symbol=ALRM) | Alarm.com Holdings, Inc. | ALRM |
 
 ## **Methodology**
 
